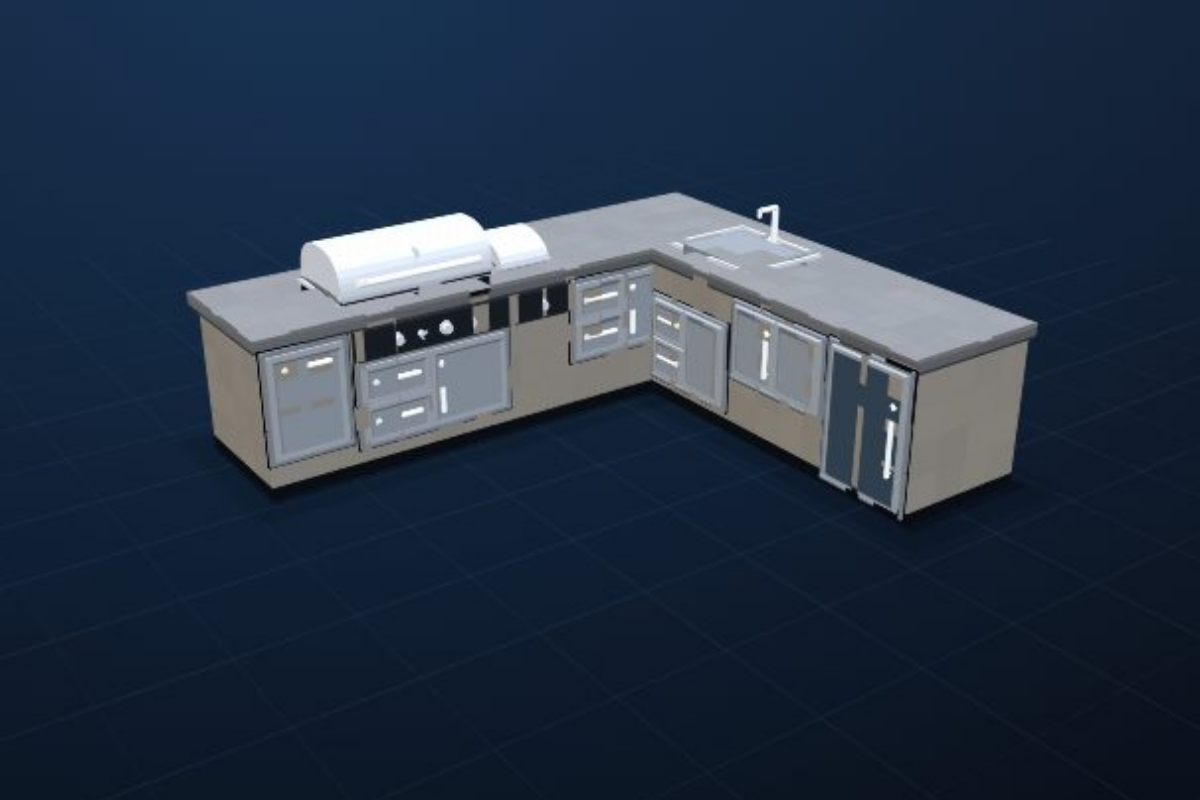
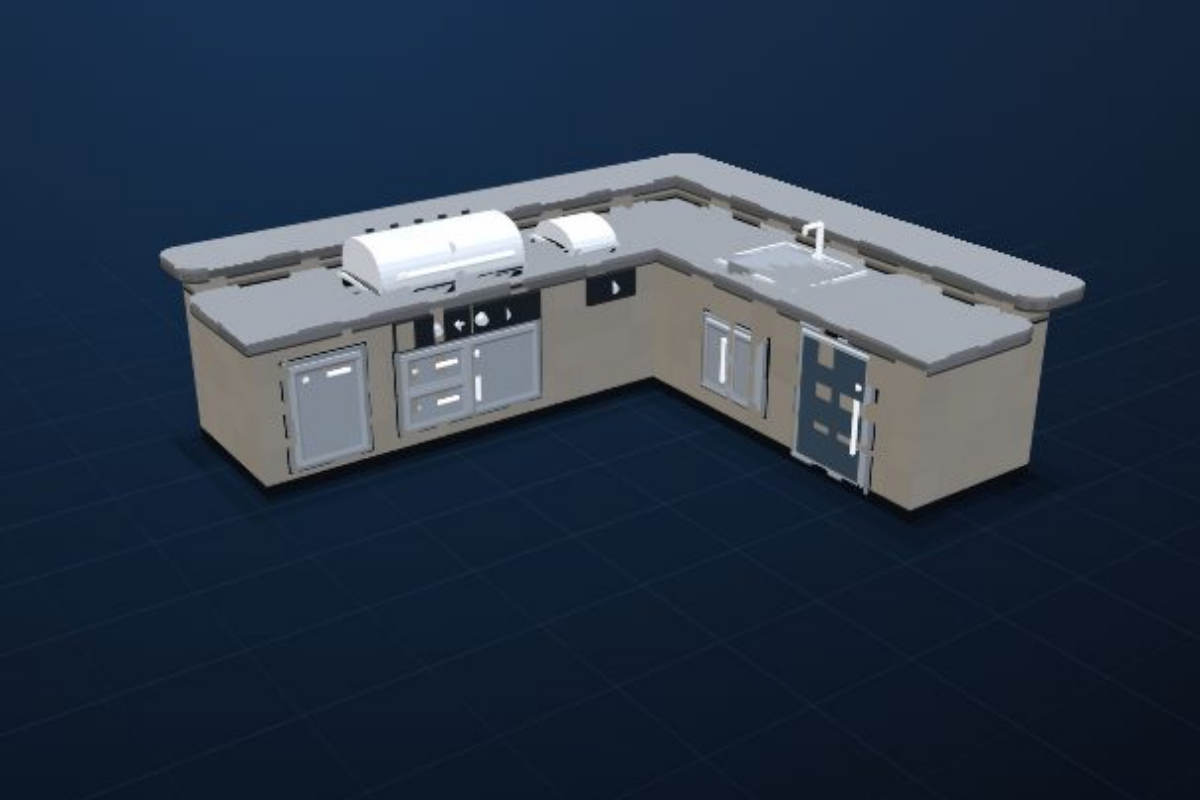
Use John's own three sample islands, and add before a corner however it is built.
The straight, L and U in the gallery are now John's designs, with the
raised bar on and filler panels between the pieces; their pictures are
redrawn from them. His L and U build the corner from filler panels over the
return leg rather than a corner cabinet, so + Add now puts new pieces before
whatever sits over a leg running the other way, not only before a corner
cabinet.

Not deployed yet.

Changed region(s): [[0.1233, 0.1875, 0.925, 0.6562]]

diff --git a/eaglebuilt-site/site/design/app/index.html b/eaglebuilt-site/site/design/app/index.html
@@ -712,12 +712,12 @@ input[type=range]{width:100%;accent-color:var(--blue)}
 <script>
 /* The samples. "d" is a design link's #d= code; "pic" its picture. */
 window.EB_SAMPLES = [
-  { key: "straight", shape: "Straight", name: "The Classic", pic: "samples/straight.png",
[1 lines of base64/hex data omitted]
-  { key: "ell", shape: "L-shape", name: "The Corner", pic: "samples/ell.png",
[1 lines of base64/hex data omitted]
-  { key: "yu", shape: "U-shape", name: "The Big U", pic: "samples/yu.png",
[1 lines of base64/hex data omitted]
+  { key: "straight", shape: "Straight", name: "The Classic", pic: "samples/straight.png", /* John's, 2026-10-11 */
[1 lines of base64/hex data omitted]
+  { key: "ell", shape: "L-shape", name: "The Corner", pic: "samples/ell.png", /* John's, 2026-10-11 */
[1 lines of base64/hex data omitted]
+  { key: "yu", shape: "U-shape", name: "The Big U", pic: "samples/yu.png", /* John's, 2026-10-11 */
[1 lines of base64/hex data omitted]
 ];
 </script>
 
@@ -7268,12 +7268,34 @@ function stripAdd(runIdx, k, after){
   S.mods.push(m);
   editRun(run, list => {
     let at = after ? list.indexOf(after) + 1 : list.length;
-    /* A run that ends in a corner piece takes new pieces before the corner. */
-    if (!after && list.length && /^corner/.test(list[list.length - 1].k)) at = list.length - 1;
+    /* A run that turns a corner at its far end (a corner cabinet, or fillers
+       over a return leg) takes new pieces before the corner, not past it. */
+    if (!after) at = Math.min(at, cornerIndex(run, list));
     list.splice(at, 0, m);
   });
   S.sel = m.id; fit(); refresh();
   return m;
+}
+/* Where the corner starts at a run's far end: the first piece that sits over
+   a run going the other way (the return leg of an L, or a U's far leg), or a
+   corner cabinet. The run's length if it ends clear. */
+function cornerIndex(run, list){
+  const ax = run.horiz ? "x" : "y";
+  const start = list.length ? list[0][ax] - modWidth(list[0]) / 2 : 0;
+  const end = start + run.len;
+  let from = Infinity;
+  S.mods.forEach(o => {
+    if (list.includes(o) || ((o.r % 180) === 0) === run.horiz) return;
+    if (o[ax] > end - S.depth - 1) from = Math.min(from, o[ax] - modDepth(o) / 2);
+  });
+  let i = list.length;
+  while (i > 0){
+    const p = list[i - 1];
+    const overCorner = /^corner/.test(p.k) || p[ax] + modWidth(p) / 2 > from + 0.5;
+    if (!overCorner) break;
+    i--;
+  }
+  return i;
 }
 function stripSwap(m, k){
   const run = stripRunOf(m);
